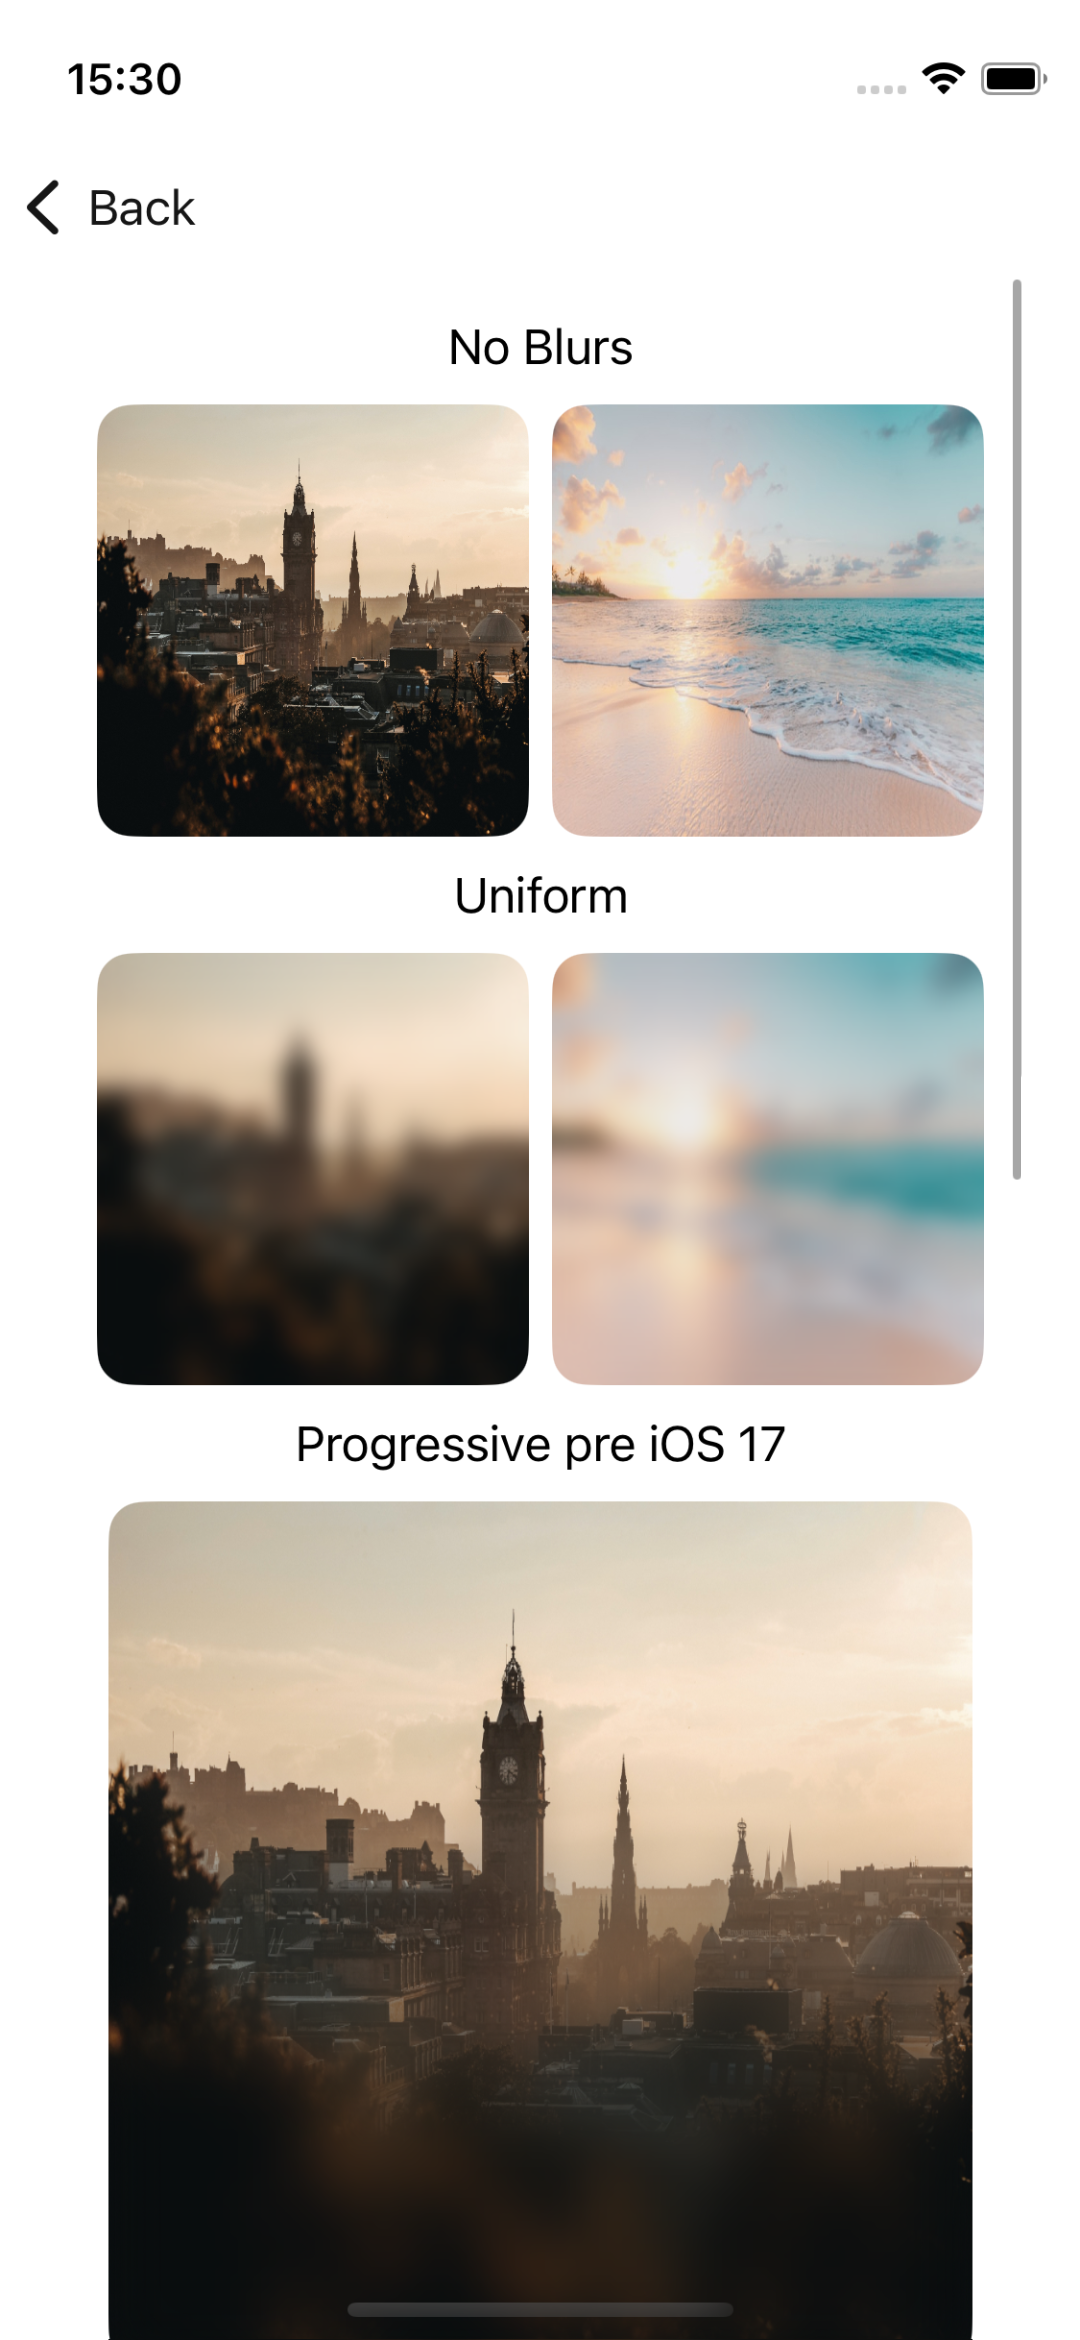
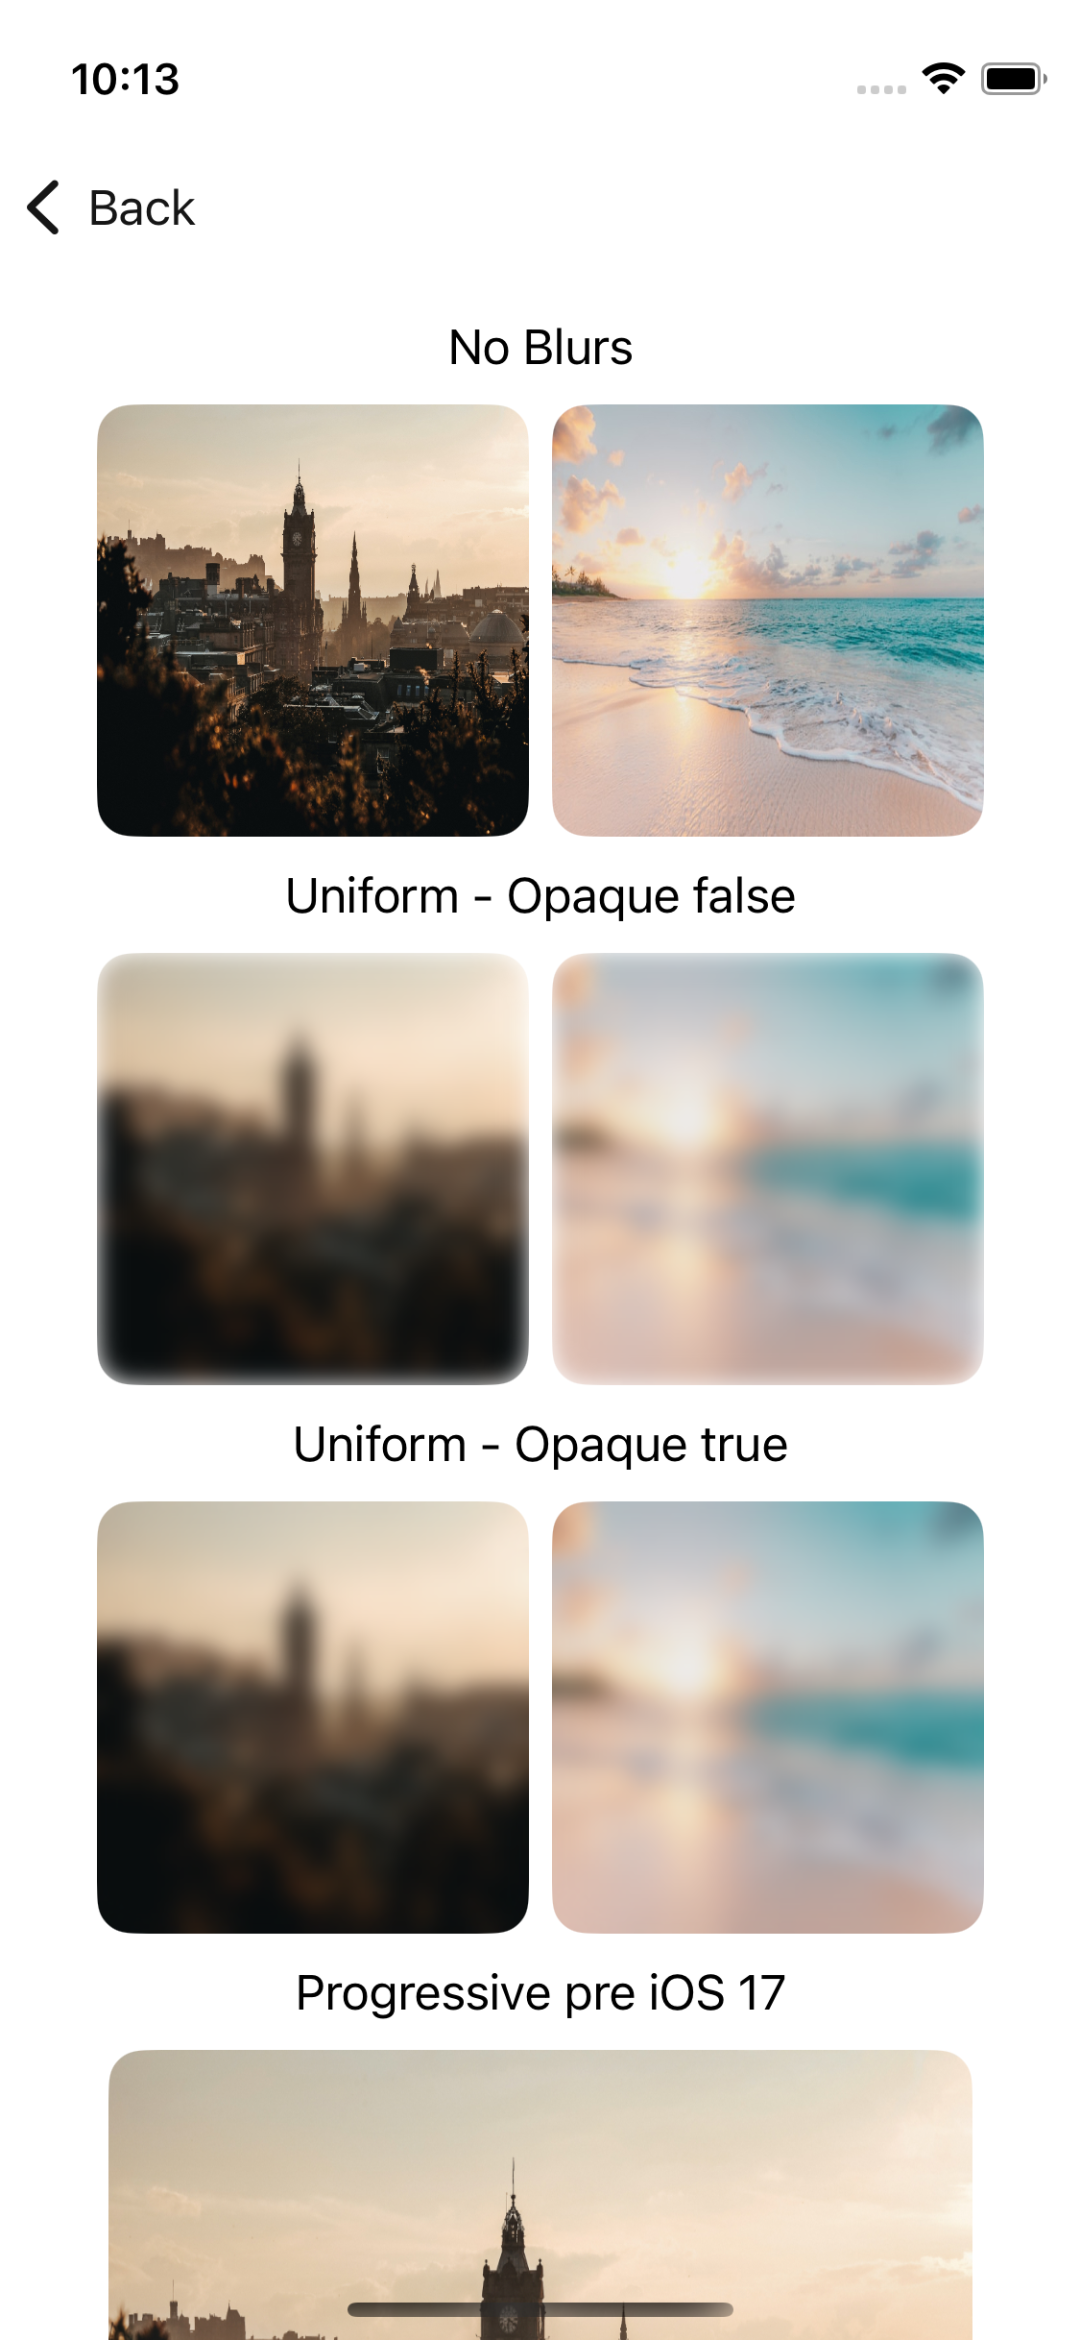
DON-1855 update readme, screenshots

Changed region(s): [[0.0917, 0.1248, 0.9472, 1.0], [0.0611, 0.0312, 0.1528, 0.0624]]

diff --git a/Example/Backpack/SwiftUI/Tokens/BlurTokensView.swift b/Example/Backpack/SwiftUI/Tokens/BlurTokensView.swift
@@ -42,18 +42,32 @@ struct BlurTokensView: View {
                         .frame(width: 150, height: 150)
                         .cornerRadius(BPKCornerRadiusMd)
                 }
-                Text("Uniform")
+                Text("Uniform - Opaque false")
                 HStack(spacing: 8) {
                     Image("dialog_image")
                         .resizable()
                         .frame(width: 150, height: 150)
-                        .blur(BPKUniformBlur())
+                        .blur(BPKUniformBlur(opaque: false))
                         .cornerRadius(BPKCornerRadiusMd)
                     
                     Image("dialog_flare")
                         .resizable()
                         .frame(width: 150, height: 150)
-                        .blur(BPKUniformBlur())
+                        .blur(BPKUniformBlur(opaque: false))
+                        .cornerRadius(BPKCornerRadiusMd)
+                }
+                Text("Uniform - Opaque true")
+                HStack(spacing: 8) {
+                    Image("dialog_image")
+                        .resizable()
+                        .frame(width: 150, height: 150)
+                        .blur(BPKUniformBlur(opaque: true))
+                        .cornerRadius(BPKCornerRadiusMd)
+                    
+                    Image("dialog_flare")
+                        .resizable()
+                        .frame(width: 150, height: 150)
+                        .blur(BPKUniformBlur(opaque: true))
                         .cornerRadius(BPKCornerRadiusMd)
                 }
                 Text("Progressive pre iOS 17")
@@ -72,11 +86,13 @@ struct BlurTokensView: View {
                 Text("Progressive iOS 17+")
                 if #available(iOS 17, *) {
                     Image("dialog_image")
+                        .resizable()
                         .frame(width: 300, height: 300)
                         .bpkProgressiveMetalBlur()
                         .cornerRadius(BPKCornerRadiusMd)
                     
                     Image("dialog_flare")
+                        .resizable()
                         .frame(width: 300, height: 300)
                         .bpkProgressiveMetalBlur()
                         .cornerRadius(BPKCornerRadiusMd)

diff --git a/Backpack-SwiftUI/Blur/Classes/BPKUniformBlur.swift b/Backpack-SwiftUI/Blur/Classes/BPKUniformBlur.swift
@@ -24,8 +24,11 @@ import SwiftUI
 public struct BPKUniformBlur {
     /// The radius of the blur effect.
     let radius: CGFloat = 4
+    var opaque: Bool
     
-    public init() {}
+    public init(opaque: Bool) {
+        self.opaque = opaque
+    }
     
 }
 
@@ -34,6 +37,6 @@ public extension View {
     /// - Parameter blur: A `BPKBlur` configuration defining the type and style of the blur.
     /// - Returns: A modified view with the blur applied.
     func blur(_ blur: BPKUniformBlur) -> some View {
-        self.blur(radius: blur.radius, opaque: true)
+        self.blur(radius: blur.radius, opaque: blur.opaque)
     }
 }

diff --git a/Backpack-SwiftUI/Blur/Classes/VisualEffect+Blur.swift b/Backpack-SwiftUI/Blur/Classes/VisualEffect+Blur.swift
@@ -115,7 +115,7 @@ public extension View {
     /// - Returns: The view with the gradient blur effect applied.
     func bpkProgressiveMetalBlur() -> some View {
         self.variableBlur(
-            radius: 50,
+            radius: 24,
             maxSampleCount: 15,
             verticalPassFirst: false
         ) { geometryProxy, context in

diff --git a/Backpack-SwiftUI/Blur/README.md b/Backpack-SwiftUI/Blur/README.md
@@ -17,18 +17,18 @@
 Applies a fixed-radius blur to any SwiftUI view.
 
 ```swift
-BPKUniformBlur()
+BPKUniformBlur(opaque: Bool)
 ```
 
 **Example:**
 
 ```swift
 Text("Blurred Content")
-    .blur(BPKUniformBlur())
+    .blur(BPKUniformBlur(opaque: false))
 
 Image("example-image")
     .resizable()
-    .blur(BPKUniformBlur())
+    .blur(BPKUniformBlur(opaque: true))
 ```
 
 ---
@@ -76,9 +76,9 @@ Image("example-image")
 ### `BPKUniformBlur`
 
 - **Type**: Static blur
-- **Radius**: 4pt
+- **Radius**: 4pt (default)
 - **Performance**: High
-- **Use case**: Simple, consistent blur overlays
+- **Use case**: Simple, consistent blur overlays, opaque bool depending on image background
 
 ### `BPKProgressiveBlur`
 
@@ -90,7 +90,7 @@ Image("example-image")
 ### `bpkProgressiveMetalBlur`
 
 - **Type**: Shader-based mask blur
-- **Radius**: 50pt (default)
+- **Radius**: 24pt (default)
 - **Performance**: GPU-accelerated
 - **Use case**: iOS 17+
 
